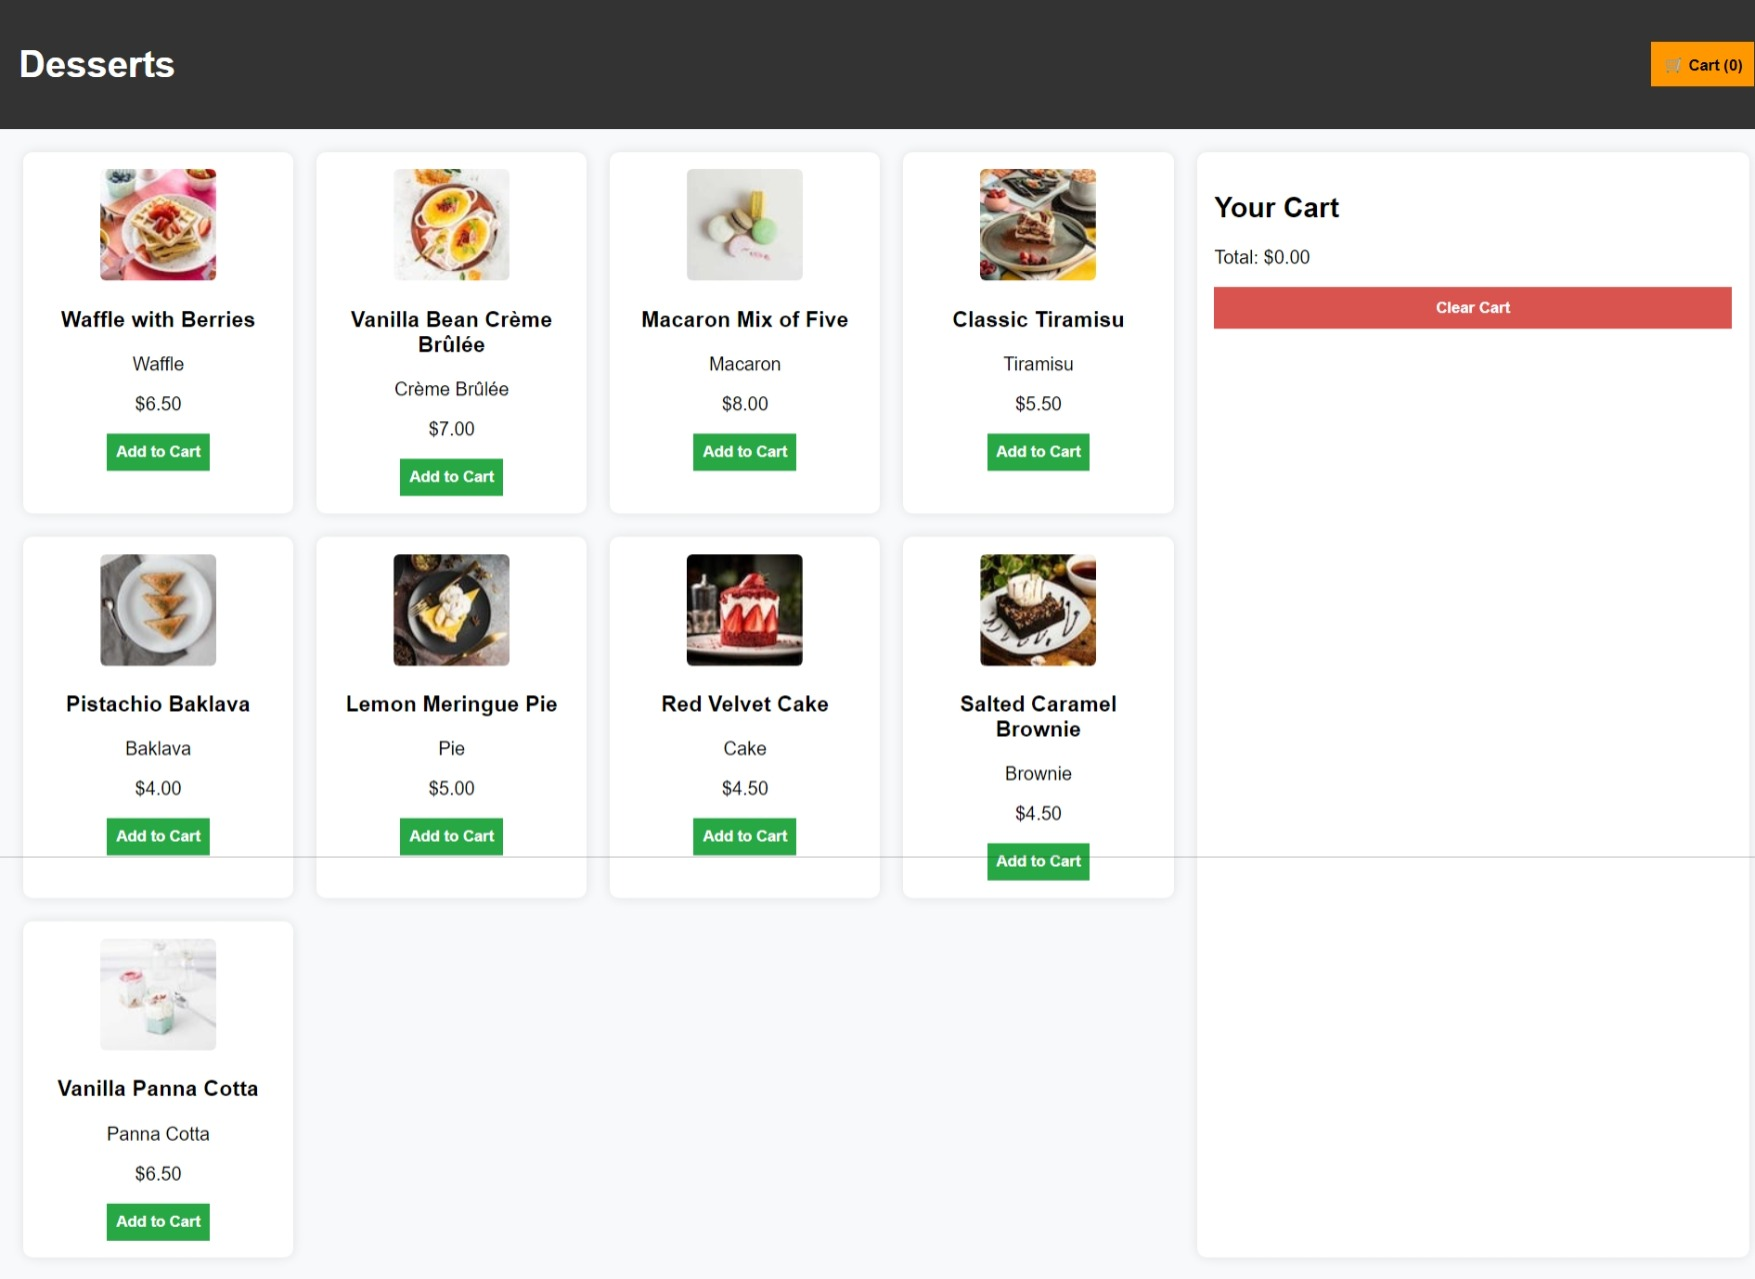
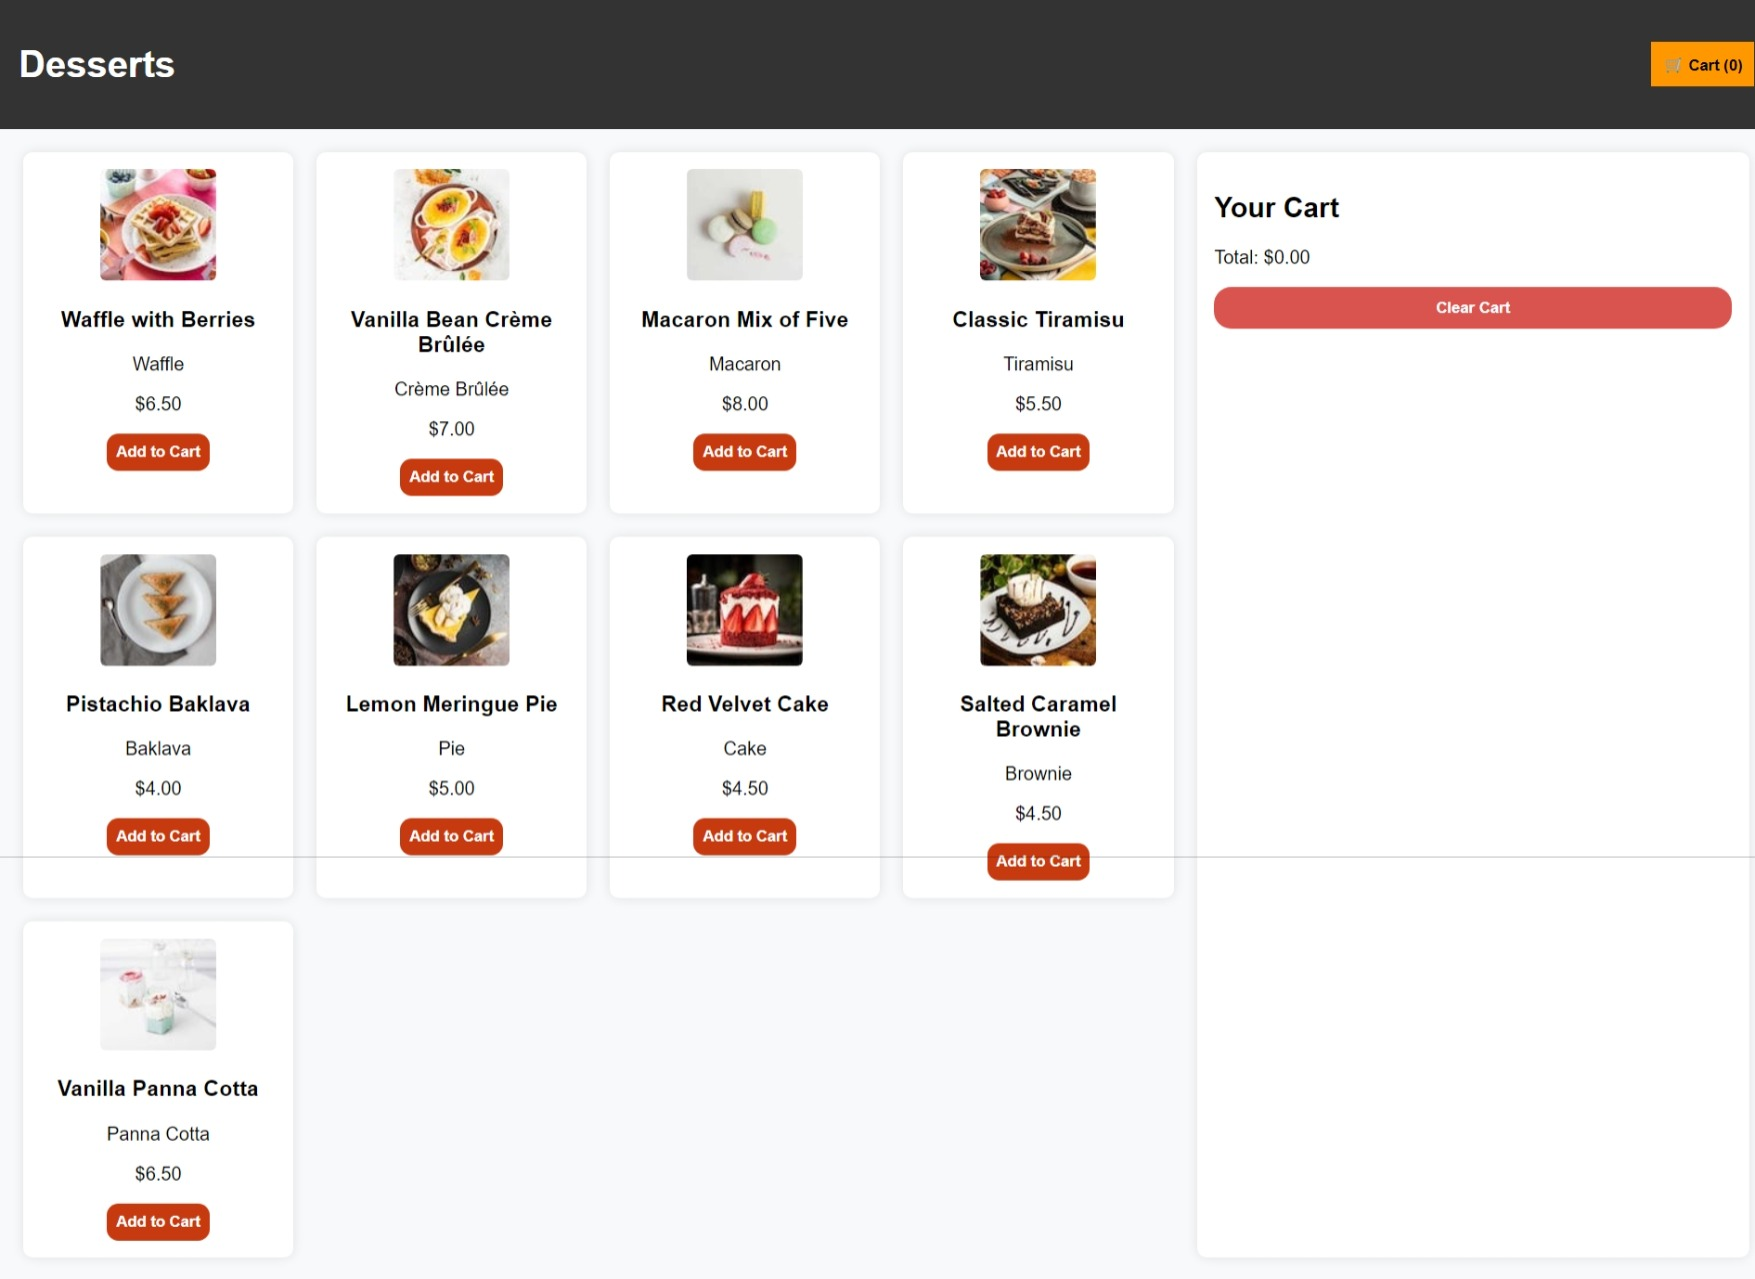
Segundo commit

diff --git a/styles.css b/styles.css
@@ -51,12 +51,13 @@ main {
 }
 
 .add-to-cart {
-    background: #28a745;
+    background: hsl(14, 86%, 42%);
     color: white;
     border: none;
     padding: 8px;
     cursor: pointer;
     font-weight: bold;
+    border-radius: 10px;
 }
 
 #cart {
@@ -94,6 +95,7 @@ main {
     cursor: pointer;
     width: 100%;
     font-weight: bold;
+    border-radius: 15px;
 }
 
 .products-container {
@@ -116,19 +118,21 @@ main {
     .main-container {
         flex-direction: column;
         align-items: center;
+        width: 100%;
     }
 
     .products-container {
         grid-template-columns: 1fr;
         margin-right: 0;
-        padding: 10px; /* Asegura margen uniforme */
+        padding: 10px;
+        width: 100%;
     }
 
     #cart {
-        width: 100%;
-        margin: 0 auto; /* Centrarlo */
-        padding: 15px; /* Espaciado uniforme */
-        box-sizing: border-box; /* Evita que se salga de la pantalla */
+        margin: 0;
+        padding: 15px;
+        justify-self: center;
+        text-align: center;
     }
 }
 

diff --git a/script.js b/script.js
@@ -57,7 +57,7 @@ document.addEventListener("DOMContentLoaded", () => {
             const li = document.createElement("li");
             li.innerHTML = `
                 ${item.name} x${item.quantity} - $${(item.price * item.quantity).toFixed(2)}
-                <button class="remove-item" data-name="${item.name}">❌</button>
+                <button class="remove-item" data-name="${item.name}">X</button>
             `;
 
             cartItems.appendChild(li);
